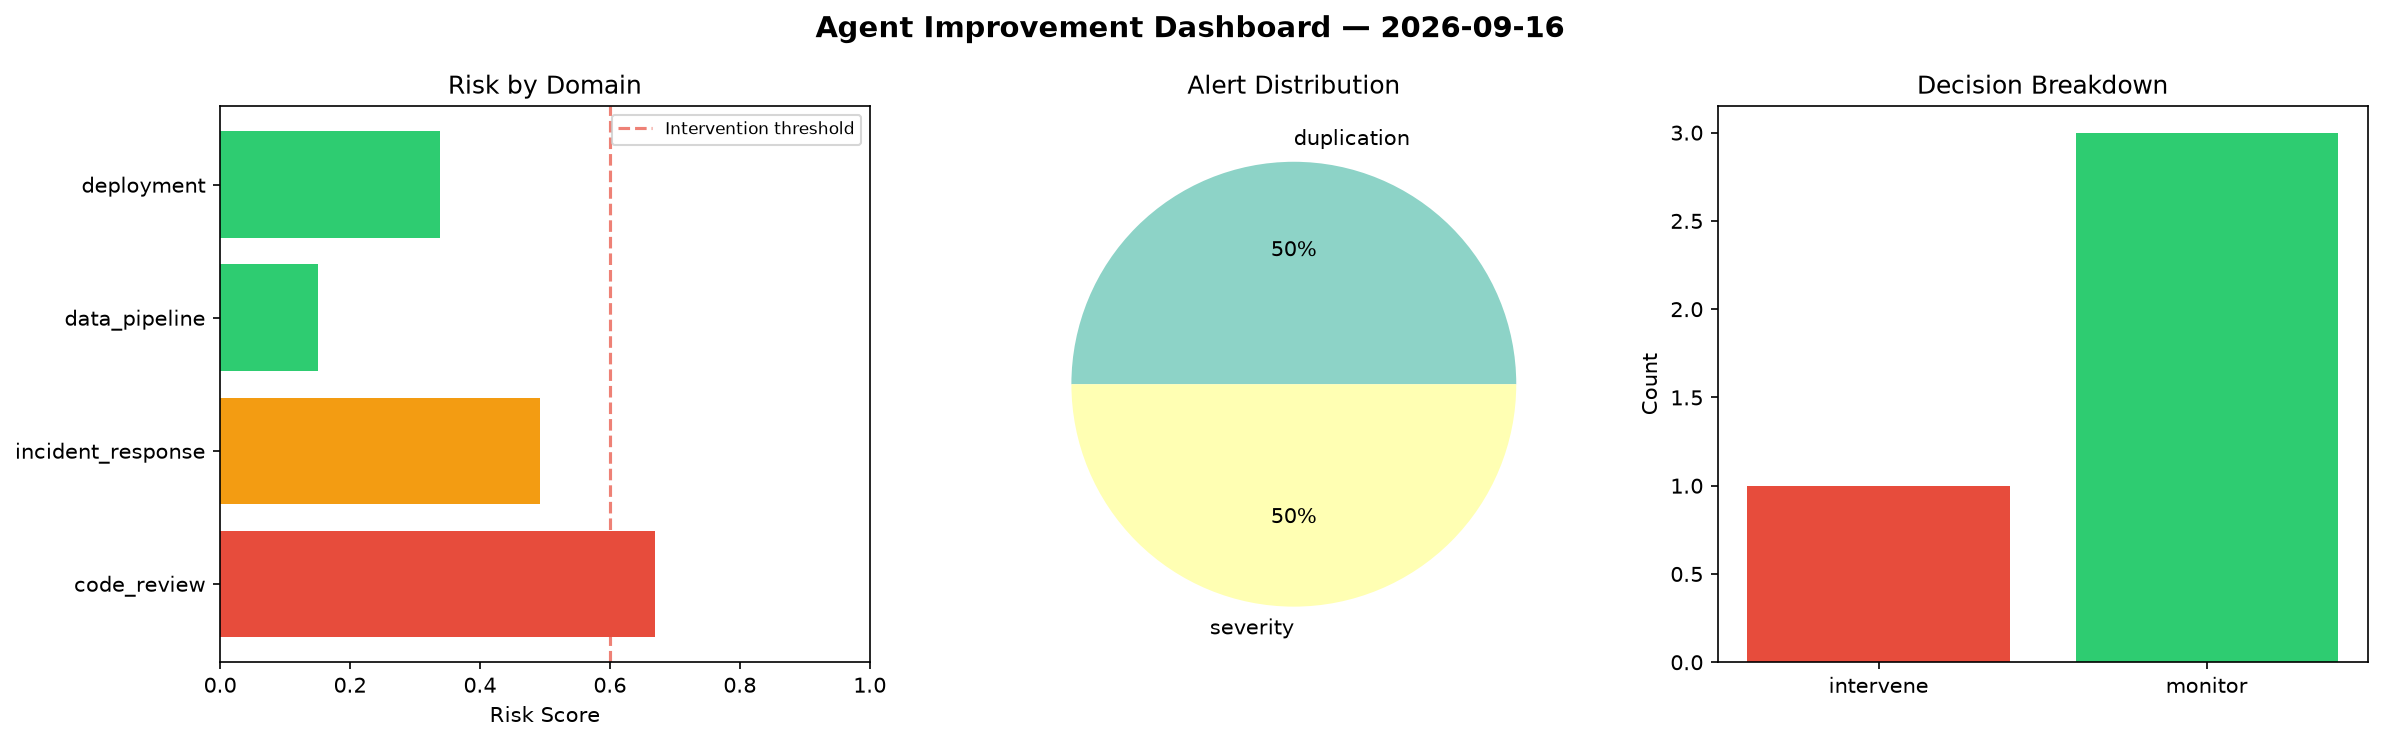
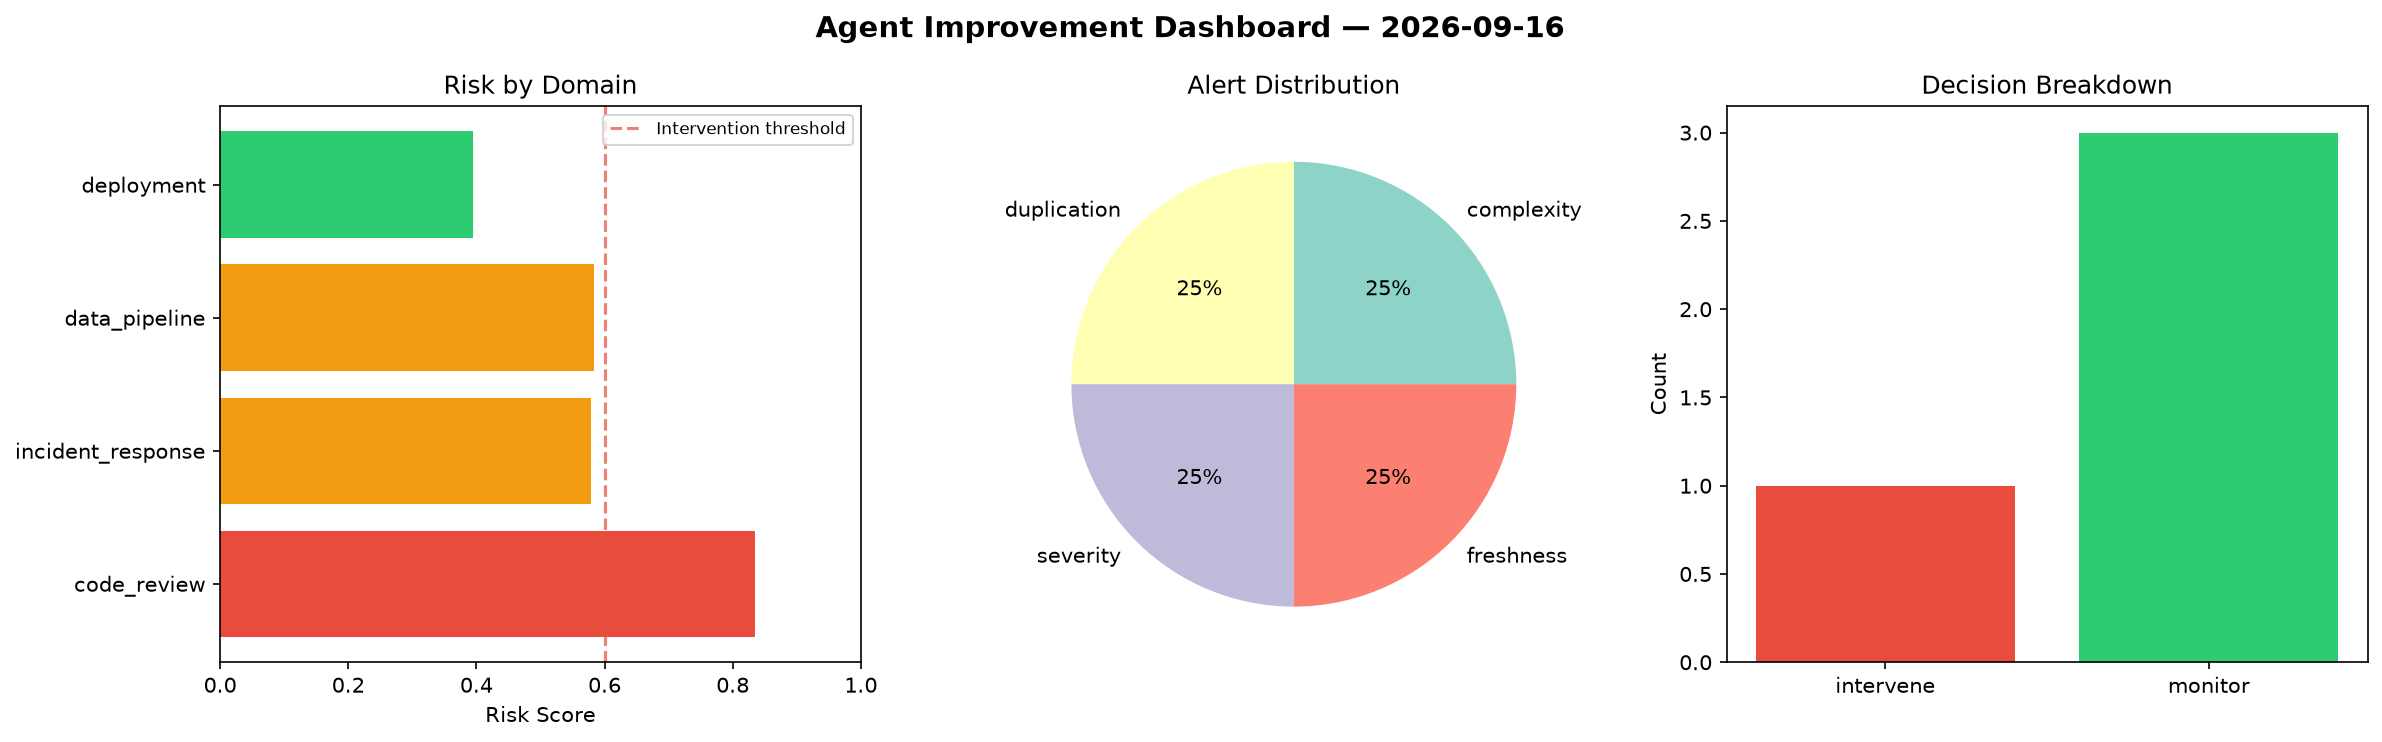
agent-improvement: daily cycle 2026-09-16T13:30

diff --git a/logs/2026-09-16.md b/logs/2026-09-16.md
@@ -1,6 +1,6 @@
 # Agent Improvement Report — 2026-09-16
 
-**Cycle ID:** `c67dbb2c` | **Avg Risk:** 0.4126 | **Interventions:** 1/4
+**Cycle ID:** `6b0b0ad8` | **Avg Risk:** 0.5977 | **Interventions:** 1/4
 
 ![Dashboard](2026-09-16_dashboard.png)
 
@@ -10,18 +10,18 @@
 
 | Domain | Risk Score | Decision | Alerts |
 |--------|-----------|----------|--------|
-| code_review | 0.6693 | intervene | duplication |
-| incident_response | 0.4917 | monitor | severity |
-| data_pipeline | 0.1503 | monitor | none |
-| deployment | 0.3391 | monitor | none |
+| code_review | 0.8346 | intervene | complexity, duplication |
+| incident_response | 0.5788 | monitor | severity |
+| data_pipeline | 0.5829 | monitor | freshness |
+| deployment | 0.3946 | monitor | none |
 
 ## Delta vs Yesterday
 
 | Domain | Today | Yesterday | Change |
 |--------|-------|-----------|--------|
-| code_review | 0.6693 | 0.5914 | 📈 13.2% |
-| incident_response | 0.4917 | 0.6444 | 📉 -23.7% |
-| data_pipeline | 0.1503 | 0.5902 | 📉 -74.5% |
-| deployment | 0.3391 | 0.437 | 📉 -22.4% |
+| code_review | 0.8346 | 0.5914 | 📈 41.1% |
+| incident_response | 0.5788 | 0.6444 | 📉 -10.2% |
+| data_pipeline | 0.5829 | 0.5902 | 📉 -1.2% |
+| deployment | 0.3946 | 0.437 | 📉 -9.7% |
 
 **Refinement:** `{'adjustment': 'maintain', 'trend': 'improving', 'window': 4}`
